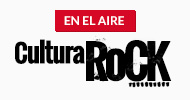
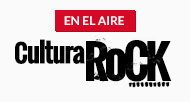
Finished V1

diff --git a/assets/css/style.css b/assets/css/style.css
@@ -126,8 +126,8 @@ a.player-link {
 
 .player-container.radiouno .player-box .banner_onair {
   width: 190px;
-  height: 100px;
-  padding-top: 11px; 
+  height: 102px;
+  padding-top: 12px; 
   float: right;
 }
 

diff --git a/player.php b/player.php
@@ -107,7 +107,7 @@
 
             <!-- /*ROW 2 NEW*/ -->
             <div class="player-item">
-                <img src="assets/images/rotator-tmp/rotate-tmp.php" alt="Banner" width="271" height="255" />
+                <img src="assets/images/rotator/rotate.php" alt="Banner" width="271" height="255" />
                 <!-- <img src="assets/images/ban_mobile-app_271x208.jpg" alt="Descarga nuestra APP para iOS y Android" /> -->
             </div><!-- /.player-item -->
             <div class="player-item">
@@ -150,7 +150,7 @@
                 <?php include 'items/item_rockdeaca.php' ?>
             </div><!-- /.player-item -->
             <div class="player-item last">
-                <img src="assets/images/rotator/rotate.php" alt="Banner" width="271" height="255" />
+                <img src="assets/images/rotator2/rotate2.php" alt="Banner" width="271" height="255" />
             </div><!-- /.player-item-last -->
             <div class="clearfix"></div>
 
